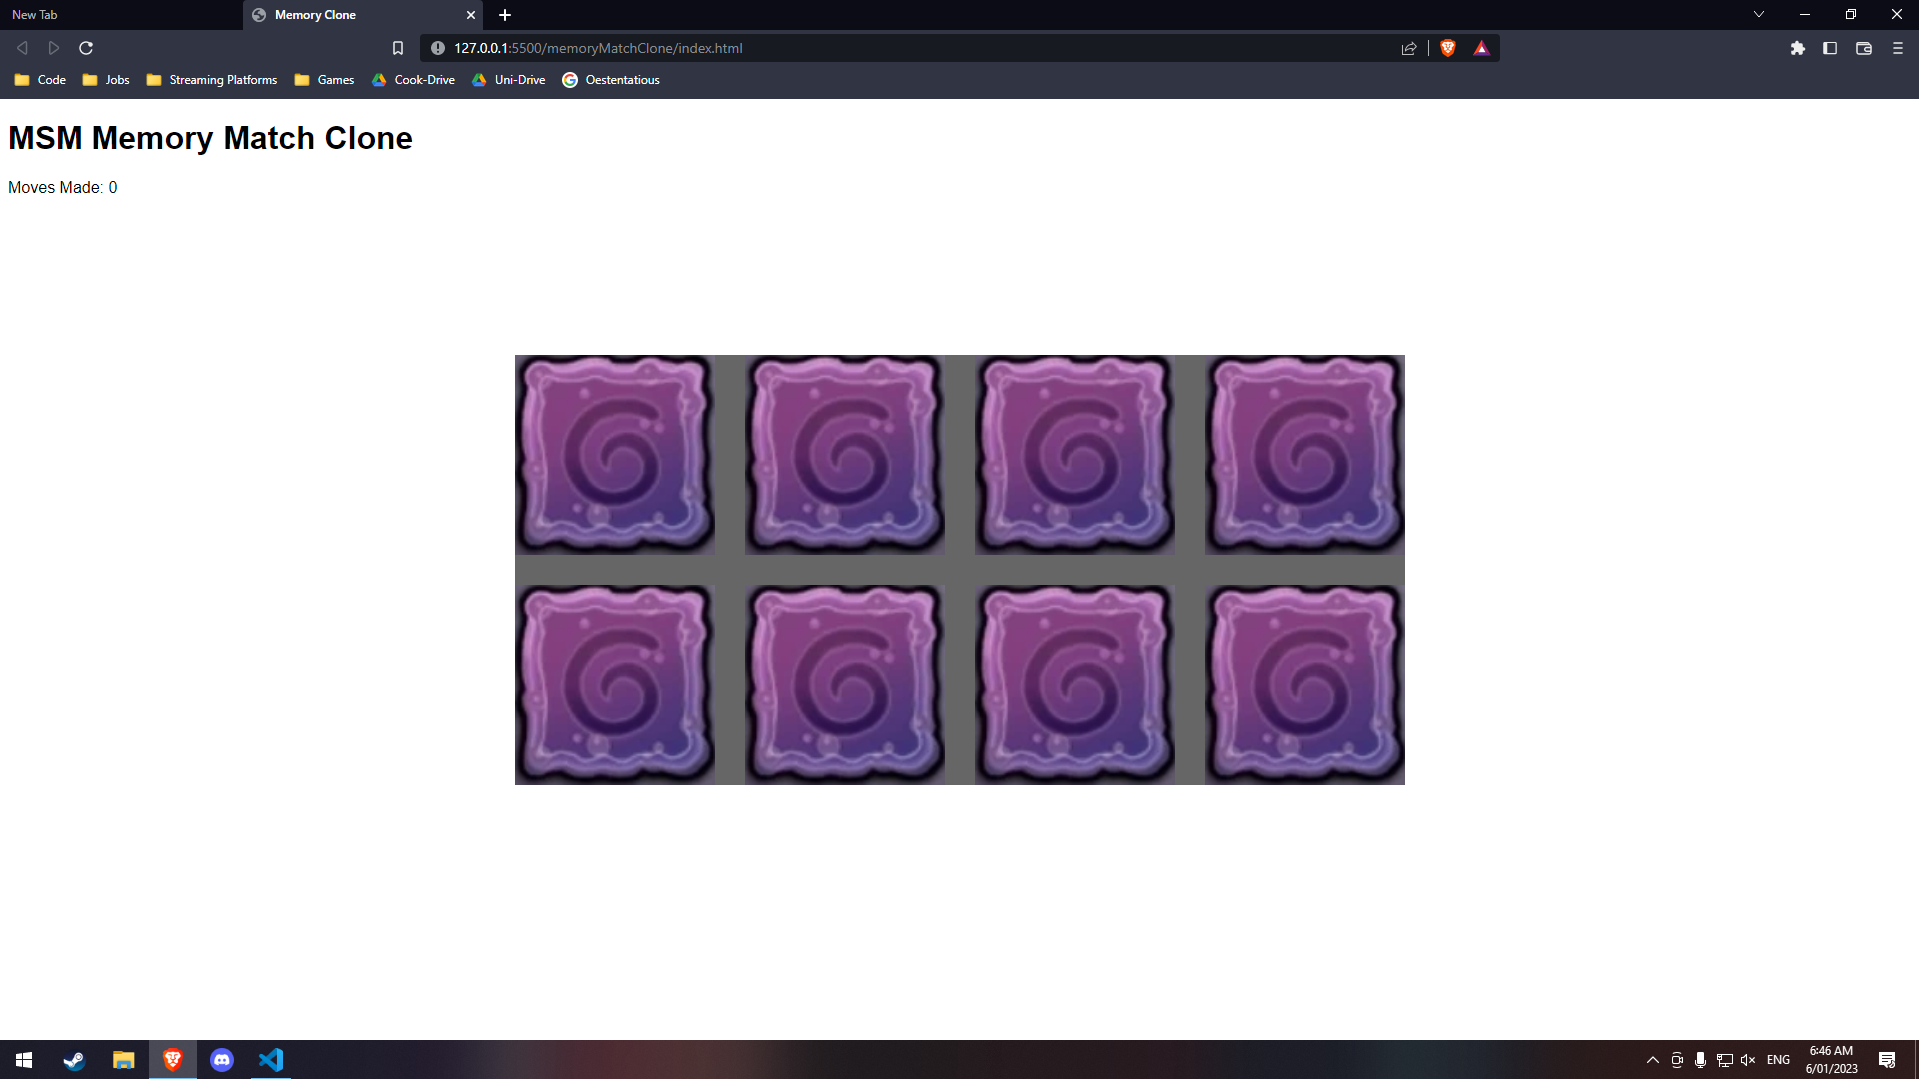
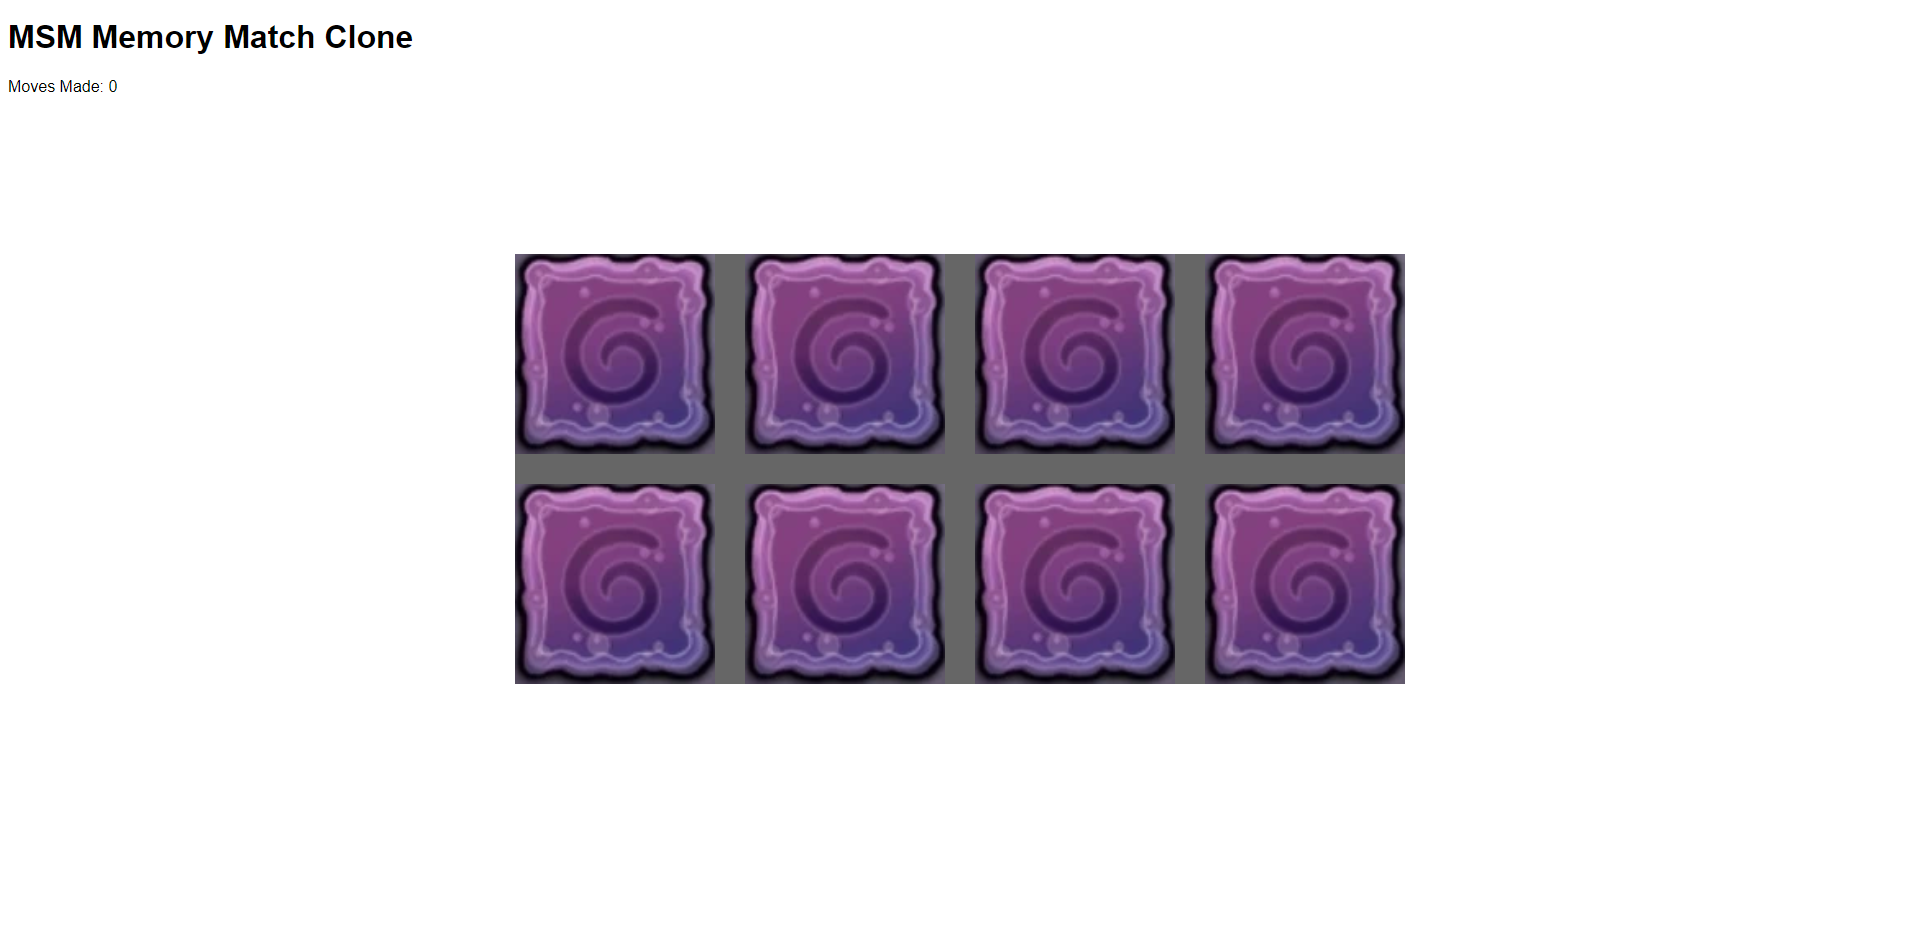
boredClone img, extra sauce -- changed the base img for the memory game clone to exclude the bottom nav bar and the top tabs, added a link for screenshots and coord location stuff

diff --git a/MSM_Memory_Match/sauce.md b/MSM_Memory_Match/sauce.md
@@ -1,2 +1,6 @@
 All portrait images
 https://mysingingmonsters.fandom.com/wiki/Monster_Portraits
+
+PyAutoGui - screenshots, coord location
+https://pyautogui.readthedocs.io/en/latest/screenshot.html
+
